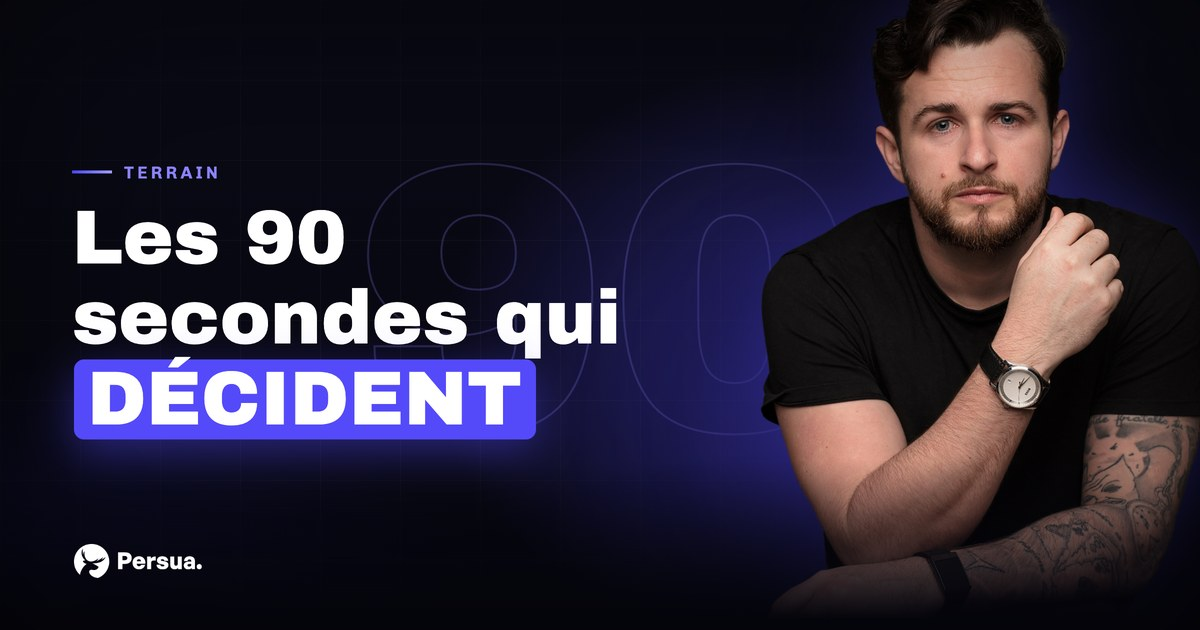
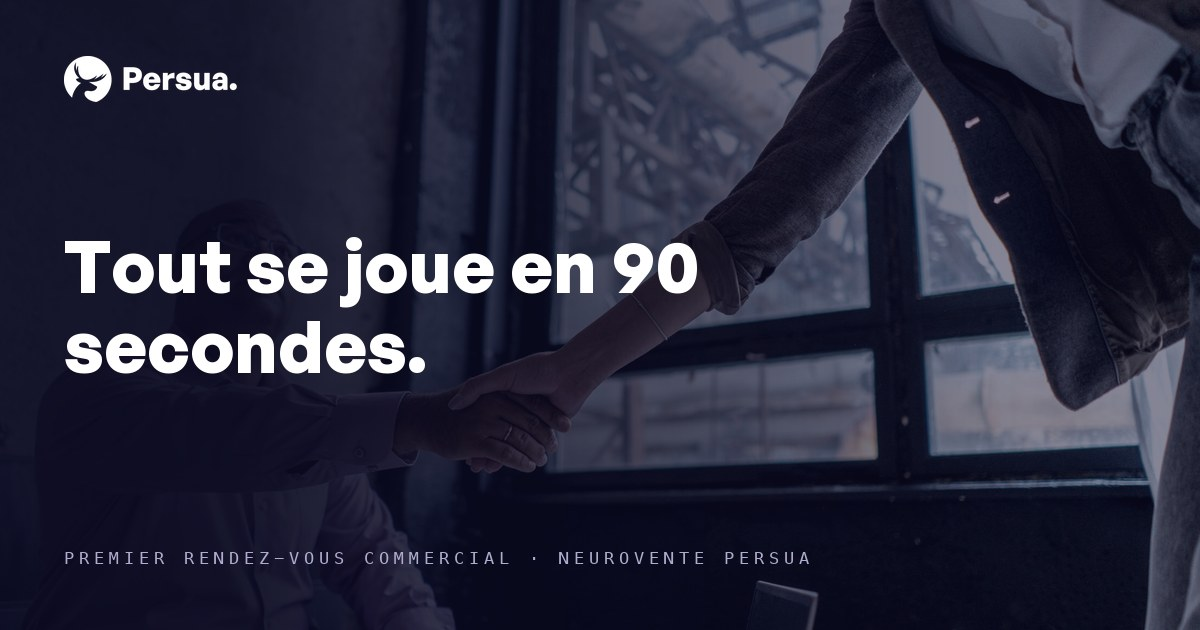
seo: publie /premier-rendez-vous-commercial (planning éditorial)

diff --git a/premier-rendez-vous-commercial.html b/premier-rendez-vous-commercial.html
@@ -9,21 +9,21 @@
 <meta property="og:image:height" content="630">
 <meta name="twitter:card" content="summary_large_image">
 <title>Premier rendez-vous commercial : les 90 s décisives | Persua</title>
-<meta name="description" content="Premier rendez-vous commercial : les 90 premières secondes règlent la menace perçue pour tout l'entretien. Préparez votre état interne. Diagnostic gratuit.">
+<meta name="description" content="Premier rendez-vous commercial : les 90 premières secondes règlent la menace perçue pour tout l'entretien. Prépare ton état interne. Diagnostic gratuit.">
 <link rel="canonical" href="https://persua-neurovente.com/premier-rendez-vous-commercial">
 <meta property="og:type" content="article">
 <meta property="og:title" content="Premier rendez-vous commercial : les 90 secondes qui règlent tout">
-<meta property="og:description" content="La menace perçue se fixe dans les 90 premières secondes. La vraie préparation porte sur votre état interne, avant votre plaquette.">
+<meta property="og:description" content="La menace perçue se fixe dans les 90 premières secondes. La vraie préparation porte sur ton état interne, avant ta plaquette.">
 <link rel="preconnect" href="https://fonts.googleapis.com">
 <link rel="preconnect" href="https://fonts.gstatic.com" crossorigin>
 <link href="https://api.fontshare.com/v2/css?f[]=general-sans@400,500,600,700&display=swap" rel="stylesheet">
 <link href="https://fonts.googleapis.com/css2?family=Archivo+Black&family=Chivo:wght@700;800;900&display=swap" rel="stylesheet">
 <link rel="stylesheet" href="assets/styles.css?v=37">
 <script type="application/ld+json">
-{"@context":"https://schema.org","@type":"Article","image":"https://persua-neurovente.com/assets/articles/premier-rendez-vous-commercial.jpg","headline":"Premier rendez-vous commercial : les 90 secondes qui règlent tout","description":"Les 90 premières secondes d'un premier rendez-vous commercial fixent le niveau de menace perçue pour tout l'entretien. La préparation qui compte porte sur votre état interne, et la découverte passe avant tout pitch.","author":{"@type":"Person","name":"Steven Lefrançois","jobTitle":"Formateur en neurovente","url":"https://persua-neurovente.com/a-propos","sameAs":["https://www.linkedin.com/in/stevenlfrs","https://www.youtube.com/@steven_vente_persua"]},"publisher":{"@type":"Organization","name":"Persua"},"datePublished":"2026-10-22","inLanguage":"fr","mainEntityOfPage":"https://persua-neurovente.com/premier-rendez-vous-commercial","about":["premier rendez-vous commercial","réussir un premier rdv client","préparer un rendez-vous commercial","premier contact client"]}
+{"@context":"https://schema.org","@type":"Article","image":"https://persua-neurovente.com/assets/articles/premier-rendez-vous-commercial.jpg","headline":"Premier rendez-vous commercial : les 90 secondes qui règlent tout","description":"Les 90 premières secondes d'un premier rendez-vous commercial fixent le niveau de menace perçue pour tout l'entretien. La préparation qui compte porte sur ton état interne, et la découverte passe avant tout pitch.","author":{"@type":"Person","name":"Steven Lefrançois","jobTitle":"Formateur en neurovente","url":"https://persua-neurovente.com/a-propos","sameAs":["https://www.linkedin.com/in/stevenlfrs","https://www.youtube.com/@steven_vente_persua"]},"publisher":{"@type":"Organization","name":"Persua"},"datePublished":"2026-10-22","inLanguage":"fr","mainEntityOfPage":"https://persua-neurovente.com/premier-rendez-vous-commercial","about":["premier rendez-vous commercial","réussir un premier rdv client","préparer un rendez-vous commercial","premier contact client"]}
 </script>
 <script type="application/ld+json">
-{"@context":"https://schema.org","@type":"FAQPage","mainEntity":[{"@type":"Question","name":"Comment préparer un premier rendez-vous commercial ?","acceptedAnswer":{"@type":"Answer","text":"Préparez trois choses, dans cet ordre : votre état interne (cinq minutes de calme avant d'entrer, un objectif clair et réaliste pour ce rendez-vous précis), vos questions de découverte, et seulement ensuite vos éléments de preuve. Réviser sa plaquette rassure le vendeur et ne change rien pour le client."}},{"@type":"Question","name":"Que dire dans les premières minutes d'un premier rendez-vous ?","acceptedAnswer":{"@type":"Answer","text":"Posez un cadre simple : qui vous êtes en une phrase, ce que vous allez faire pendant ce temps ensemble, et ce que le client en retirera même s'il ne travaille jamais avec vous. Un cadre annoncé fait baisser la vigilance, parce que le cerveau d'en face sait à quoi s'attendre."}},{"@type":"Question","name":"Faut-il présenter son offre dès le premier rendez-vous ?","acceptedAnswer":{"@type":"Answer","text":"Non, sauf si le client le demande explicitement. Le premier rendez-vous sert à comprendre sa situation, son problème et ce qu'il lui coûte. Un pitch posé avant la découverte parle d'un problème que vous supposez, et le client sent la différence immédiatement."}},{"@type":"Question","name":"Comment bien conclure un premier rendez-vous commercial ?","acceptedAnswer":{"@type":"Answer","text":"Par une prochaine étape précise et datée, décidée ensemble : un second rendez-vous posé dans l'agenda, un document promis avec une heure d'envoi. Un « je reviens vers vous » sans date est un rendez-vous qui meurt doucement."}}]}
+{"@context":"https://schema.org","@type":"FAQPage","mainEntity":[{"@type":"Question","name":"Comment préparer un premier rendez-vous commercial ?","acceptedAnswer":{"@type":"Answer","text":"Prépare trois choses, dans cet ordre : ton état interne (cinq minutes de calme avant d'entrer, un objectif clair et réaliste pour ce rendez-vous précis), tes questions de découverte, et seulement ensuite tes éléments de preuve. Réviser sa plaquette rassure le vendeur et ne change rien pour le client."}},{"@type":"Question","name":"Que dire dans les premières minutes d'un premier rendez-vous ?","acceptedAnswer":{"@type":"Answer","text":"Pose un cadre simple : qui tu es en une phrase, ce que vous allez faire pendant ce temps ensemble, et ce que le client en retirera même s'il ne travaille jamais avec toi. Un cadre annoncé fait baisser la vigilance, parce que le cerveau d'en face sait à quoi s'attendre."}},{"@type":"Question","name":"Faut-il présenter son offre dès le premier rendez-vous ?","acceptedAnswer":{"@type":"Answer","text":"Non, sauf si le client le demande explicitement. Le premier rendez-vous sert à comprendre sa situation, son problème et ce qu'il lui coûte. Un pitch posé avant la découverte parle d'un problème que tu supposes, et le client sent la différence immédiatement."}},{"@type":"Question","name":"Comment bien conclure un premier rendez-vous commercial ?","acceptedAnswer":{"@type":"Answer","text":"Par une prochaine étape précise et datée, décidée ensemble : un second rendez-vous posé dans l'agenda, un document promis avec une heure d'envoi. Un « je reviens vers vous » sans date est un rendez-vous qui meurt doucement."}}]}
 </script>
 <script type="application/ld+json">
 {"@context":"https://schema.org","@type":"BreadcrumbList","itemListElement":[{"@type":"ListItem","position":1,"name":"Accueil","item":"https://persua-neurovente.com/"},{"@type":"ListItem","position":2,"name":"Blog","item":"https://persua-neurovente.com/blog"},{"@type":"ListItem","position":3,"name":"Premier rendez-vous commercial","item":"https://persua-neurovente.com/premier-rendez-vous-commercial"}]}
@@ -46,34 +46,34 @@
   <h1>Premier rendez-vous commercial : les 90 secondes qui règlent tout</h1>
   <div class="a-meta"><span class="av">SL</span><span>Par Steven Lefrançois · 6 min de lecture</span></div>
 
-  <p class="lead">La veille d'un premier rendez-vous important, vous révisez votre plaquette, vous peaufinez vos slides, vous répétez votre pitch. Et le lendemain, l'entretien se joue sur autre chose : la poignée de main, vos trois premières phrases, le ton de votre voix quand vous vous asseyez. Le cerveau de votre client règle son niveau de vigilance dans les 90 premières secondes, et ce réglage colore tout ce que vous direz ensuite. Voici comment préparer ce qui compte vraiment.</p>
+  <p class="lead">La veille d'un premier rendez-vous important, tu révises ta plaquette, tu peaufines tes slides, tu répètes ton pitch. Et le lendemain, l'entretien se joue sur autre chose : la poignée de main, tes trois premières phrases, le ton de ta voix quand tu t'assois. Le cerveau de ton client règle son niveau de vigilance dans les 90 premières secondes, et ce réglage colore tout ce que tu diras ensuite. Voici comment préparer ce qui compte vraiment.</p>
 
-  <figure class="article-hero"><img src="assets/articles/premier-rendez-vous-commercial.jpg" width="1200" height="630" loading="lazy" decoding="async" alt="Premier rendez-vous commercial : les 90 premières secondes fixent la menace perçue et le climat de tout l'entretien"><figcaption>Avant vos arguments, le cerveau d'en face a déjà répondu à une seule question : ami ou danger ?</figcaption></figure>
+  <figure class="article-hero"><img src="assets/articles/premier-rendez-vous-commercial.jpg" width="1200" height="630" loading="lazy" decoding="async" alt="Premier rendez-vous commercial : les 90 premières secondes fixent la menace perçue et le climat de tout l'entretien"><figcaption>Avant tes arguments, le cerveau d'en face a déjà répondu à une seule question : ami ou danger ?</figcaption></figure>
 
   <div class="article-body">
     <div class="takeaways">
       <h3>En bref</h3>
       <ul>
         <li>Les 90 premières secondes fixent le niveau de menace perçue pour tout le rendez-vous.</li>
-        <li>La préparation la plus rentable porte sur votre état interne, avant vos supports.</li>
+        <li>La préparation la plus rentable porte sur ton état interne, avant tes supports.</li>
         <li>Au premier rendez-vous, la découverte passe avant tout pitch : comprendre, puis proposer.</li>
         <li>Un bon premier rendez-vous se conclut par une prochaine étape précise et datée.</li>
       </ul>
     </div>
 
     <h2>90 secondes qui règlent tout le rendez-vous</h2>
-    <p>Quand vous entrez dans le bureau, le cerveau de votre client fait une chose avant toute autre : il évalue si vous représentez un risque. Cette évaluation tourne en arrière-plan, très vite, bien avant qu'il ait analysé le moindre de vos arguments. La structure qui s'en charge est l'amygdale, au cœur du <b>circuit de la menace</b> décrit par le neuroscientifique Joseph LeDoux : au moindre signal suspect (débit trop rapide, enthousiasme forcé, regard qui fuit vers la plaquette), elle monte la vigilance. Et un cerveau vigilant surveille au lieu d'écouter. La délibération posée, celle qui pèse une proposition, mobilise d'autres régions, dont le <b>cortex préfrontal ventromédian</b> ; sous alerte, elles passent au second plan. Les mécanismes du stress et leurs effets sur la décision sont largement documentés par la recherche publique française, notamment à l'<a href="https://www.inserm.fr/" target="_blank" rel="noopener">Inserm</a> et au <a href="https://www.cnrs.fr/" target="_blank" rel="noopener">CNRS</a>. Conclusion terrain : vos 90 premières secondes servent à répondre à une seule question dans la tête d'en face, « suis-je en sécurité avec cette personne ? ». Tout le reste attend.</p>
+    <p>Quand tu entres dans le bureau, le cerveau de ton client fait une chose avant toute autre : il évalue si tu représentes un risque. Cette évaluation tourne en arrière-plan, très vite, bien avant qu'il ait analysé le moindre de tes arguments. La structure qui s'en charge est l'amygdale, au cœur du <b>circuit de la menace</b> décrit par le neuroscientifique Joseph LeDoux : au moindre signal suspect (débit trop rapide, enthousiasme forcé, regard qui fuit vers la plaquette), elle monte la vigilance. Et un cerveau vigilant surveille au lieu d'écouter. La délibération posée, celle qui pèse une proposition, mobilise d'autres régions, dont le <b>cortex préfrontal ventromédian</b> ; sous alerte, elles passent au second plan. Les mécanismes du stress et leurs effets sur la décision sont largement documentés par la recherche publique française, notamment à l'<a href="https://www.inserm.fr/" target="_blank" rel="noopener">Inserm</a> et au <a href="https://www.cnrs.fr/" target="_blank" rel="noopener">CNRS</a>. Conclusion terrain : tes 90 premières secondes servent à répondre à une seule question dans la tête d'en face, « suis-je en sécurité avec cette personne ? ». Tout le reste attend.</p>
 
-    <h2>La préparation qui compte : régler votre état interne</h2>
-    <p>Le stress se transmet. Si vous arrivez tendu, votre client capte votre tension avant vos mots, et son propre système d'alerte s'aligne sur le vôtre. C'est la raison pour laquelle le premier pilier de la <a href="/methode-calme">Méthode CALME</a> s'appelle le Cadre : vous réglez votre état avant de régler quoi que ce soit d'autre. En pratique, ça tient en cinq minutes, dans la voiture ou devant l'immeuble : vous coupez le téléphone, vous respirez lentement, et vous redéfinissez votre objectif en une phrase honnête. Un objectif juste pour un premier rendez-vous ressemble à « comprendre sa situation et décider ensemble d'une suite », jamais à « signer aujourd'hui ». La différence se sent : un vendeur qui a besoin de conclure dégage une urgence que le cerveau d'en face lit comme un danger. Un vendeur venu comprendre dégage la stabilité d'un médecin en consultation. Dans un rendez-vous, le cerveau le plus stable prend le contrôle.</p>
+    <h2>La préparation qui compte : régler ton état interne</h2>
+    <p>Le stress se transmet. Si tu arrives tendu, ton client capte ta tension avant tes mots, et son propre système d'alerte s'aligne sur le tien. C'est la raison pour laquelle le premier pilier de la <a href="/methode-calme">Méthode CALME</a> s'appelle le Cadre : tu règles ton état avant de régler quoi que ce soit d'autre. En pratique, ça tient en cinq minutes, dans la voiture ou devant l'immeuble : tu coupes le téléphone, tu respires lentement, et tu redéfinis ton objectif en une phrase honnête. Un objectif juste pour un premier rendez-vous ressemble à « comprendre sa situation et décider ensemble d'une suite », jamais à « signer aujourd'hui ». La différence se sent : un vendeur qui a besoin de conclure dégage une urgence que le cerveau d'en face lit comme un danger. Un vendeur venu comprendre dégage la stabilité d'un médecin en consultation. Dans un rendez-vous, le cerveau le plus stable prend le contrôle.</p>
 
     <figure class="article-hero" style="margin:34px 0"><img src="assets/articles/premier-rendez-vous-commercial-2.jpg" width="1200" height="675" loading="lazy" decoding="async" alt="Première rencontre commerciale debout, les 90 premières secondes comptent"><figcaption>Le niveau de menace perçue se règle dans les 90 premières secondes.</figcaption></figure>
 
-    <h2>Ne pitchez pas : faites une vraie découverte</h2>
-    <p>L'erreur classique du premier rendez-vous : dérouler l'offre. Slides, références, méthodologie, vingt minutes de monologue. Le problème est mécanique : votre pitch répond à un problème que vous supposez, et le client le sent. Un premier rendez-vous réussi ressemble davantage à une consultation qu'à une démonstration : vous posez des <a href="/questions-ouvertes-vente">questions ouvertes</a>, vous laissez des silences, et le client parle sept minutes sur dix. Quand il décrit lui-même sa situation, ce qui coince et ce que ça lui coûte chaque mois, deux choses se produisent : vous obtenez la matière exacte pour une proposition qui touche, et lui s'entend formuler son problème à voix haute, ce qui pèse plus lourd que tous vos arguments. <a href="/la-decouverte-en-vente">La découverte</a> est la phase qui vend à votre place ; le premier rendez-vous lui appartient en entier.</p>
+    <h2>Ne pitche pas : fais une vraie découverte</h2>
+    <p>L'erreur classique du premier rendez-vous : dérouler l'offre. Slides, références, méthodologie, vingt minutes de monologue. Le problème est mécanique : ton pitch répond à un problème que tu supposes, et le client le sent. Un premier rendez-vous réussi ressemble davantage à une consultation qu'à une démonstration : tu poses des <a href="/questions-ouvertes-vente">questions ouvertes</a>, tu laisses des silences, et le client parle sept minutes sur dix. Quand il décrit lui-même sa situation, ce qui coince et ce que ça lui coûte chaque mois, deux choses se produisent : tu obtiens la matière exacte pour une proposition qui touche, et lui s'entend formuler son problème à voix haute, ce qui pèse plus lourd que tous tes arguments. <a href="/la-decouverte-en-vente">La découverte</a> est la phase qui vend à ta place ; le premier rendez-vous lui appartient en entier.</p>
 
     <h2>Le déroulé qui marche, minute par minute</h2>
-    <p>Concrètement : vous ouvrez en posant le cadre (« voilà comment je propose qu'on utilise cette heure : je vous pose des questions pour comprendre où vous en êtes, et à la fin on décide ensemble si ça vaut le coup d'aller plus loin »). Ce cadre annoncé fait baisser la vigilance, parce que le cerveau déteste l'incertitude et vient de recevoir le programme. Ensuite, la découverte occupe l'essentiel du temps. Vous réservez les dix dernières minutes à la synthèse, dans SES mots, et à la prochaine étape : un second rendez-vous posé dans l'agenda avant de se quitter, ou un document promis avec une heure d'envoi précise. Charlyne, entrepreneuse accompagnée par Persua, résume l'effet de cette approche : « le coaching m'a permis de mieux comprendre les mécanismes de décision des clients et d'améliorer ma manière de vendre » (source : avis Google public). Les chiffres ci-dessous viennent du suivi des accompagnements Persua (source : données internes et avis Google publics) :</p>
+    <p>Concrètement : tu ouvres en posant le cadre (« voilà comment je propose qu'on utilise cette heure : je vous pose des questions pour comprendre où vous en êtes, et à la fin on décide ensemble si ça vaut le coup d'aller plus loin »). Ce cadre annoncé fait baisser la vigilance, parce que le cerveau déteste l'incertitude et vient de recevoir le programme. Ensuite, la découverte occupe l'essentiel du temps. Tu réserves les dix dernières minutes à la synthèse, dans SES mots, et à la prochaine étape : un second rendez-vous posé dans l'agenda avant de se quitter, ou un document promis avec une heure d'envoi précise. Charlyne, entrepreneuse accompagnée par Persua, résume l'effet de cette approche : « le coaching m'a permis de mieux comprendre les mécanismes de décision des clients et d'améliorer ma manière de vendre » (source : avis Google public). Les chiffres ci-dessous viennent du suivi des accompagnements Persua (source : données internes et avis Google publics) :</p>
 
     <div style="display:flex;gap:30px;flex-wrap:wrap;margin:30px 0;padding:24px 26px;border:1px solid rgba(255,255,255,.12);border-radius:16px;background:rgba(255,255,255,.03)">
       <div><div style="font-family:'Archivo Black',sans-serif;font-size:30px;line-height:1">+350</div><div style="color:#9B96B8;font-size:13px;margin-top:5px">commerciaux accompagnés</div></div>
@@ -82,16 +82,16 @@
     </div>
 
     <div class="article-cta">
-      <h3>Vos premiers rendez-vous débouchent sur quoi ?</h3>
-      <p>Le diagnostic Persua vous dit où vos entretiens perdent leur énergie, avec un score et un plan perso. En 5 minutes.</p>
+      <h3>Tes premiers rendez-vous débouchent sur quoi ?</h3>
+      <p>Le diagnostic Persua te dit où tes entretiens perdent leur énergie, avec un score et un plan perso. En 5 minutes.</p>
       <a class="btn btn-primary" href="https://diagnostic.persua-neurovente.com/">Faire le diagnostic gratuit →</a>
     </div>
 
     <h2>FAQ</h2>
     <div class="faq">
-      <details open><summary>Comment préparer un premier rendez-vous commercial ?</summary><div class="fa-body">Préparez trois choses, dans cet ordre : votre état interne (cinq minutes de calme avant d'entrer, un objectif clair et réaliste pour ce rendez-vous précis), vos questions de découverte, et seulement ensuite vos éléments de preuve. Réviser sa plaquette rassure le vendeur et ne change rien pour le client.</div></details>
-      <details><summary>Que dire dans les premières minutes d'un premier rendez-vous ?</summary><div class="fa-body">Posez un cadre simple : qui vous êtes en une phrase, ce que vous allez faire pendant ce temps ensemble, et ce que le client en retirera même s'il ne travaille jamais avec vous. Un cadre annoncé fait baisser la vigilance, parce que le cerveau d'en face sait à quoi s'attendre.</div></details>
-      <details><summary>Faut-il présenter son offre dès le premier rendez-vous ?</summary><div class="fa-body">Non, sauf si le client le demande explicitement. Le premier rendez-vous sert à comprendre sa situation, son problème et ce qu'il lui coûte. Un pitch posé avant la découverte parle d'un problème que vous supposez, et le client sent la différence immédiatement.</div></details>
+      <details open><summary>Comment préparer un premier rendez-vous commercial ?</summary><div class="fa-body">Prépare trois choses, dans cet ordre : ton état interne (cinq minutes de calme avant d'entrer, un objectif clair et réaliste pour ce rendez-vous précis), tes questions de découverte, et seulement ensuite tes éléments de preuve. Réviser sa plaquette rassure le vendeur et ne change rien pour le client.</div></details>
+      <details><summary>Que dire dans les premières minutes d'un premier rendez-vous ?</summary><div class="fa-body">Pose un cadre simple : qui tu es en une phrase, ce que vous allez faire pendant ce temps ensemble, et ce que le client en retirera même s'il ne travaille jamais avec toi. Un cadre annoncé fait baisser la vigilance, parce que le cerveau d'en face sait à quoi s'attendre.</div></details>
+      <details><summary>Faut-il présenter son offre dès le premier rendez-vous ?</summary><div class="fa-body">Non, sauf si le client le demande explicitement. Le premier rendez-vous sert à comprendre sa situation, son problème et ce qu'il lui coûte. Un pitch posé avant la découverte parle d'un problème que tu supposes, et le client sent la différence immédiatement.</div></details>
       <details><summary>Comment bien conclure un premier rendez-vous commercial ?</summary><div class="fa-body">Par une prochaine étape précise et datée, décidée ensemble : un second rendez-vous posé dans l'agenda, un document promis avec une heure d'envoi. Un « je reviens vers vous » sans date est un rendez-vous qui meurt doucement.</div></details>
     </div>
 
@@ -102,7 +102,7 @@
 
     <div class="related">
       <h3>Aller plus loin</h3>
-      <p>→ <a href="/la-decouverte-en-vente">La découverte : la phase qui fait vendre à votre place</a></p>
+      <p>→ <a href="/la-decouverte-en-vente">La découverte : la phase qui fait vendre à ta place</a></p>
       <p>→ <a href="/questions-ouvertes-vente">Questions ouvertes en vente : faire parler pour faire décider</a></p>
       <p>→ <a href="/methode-calme">La Méthode CALME : vendre en parlant au cerveau qui décide</a></p>
     </div>
